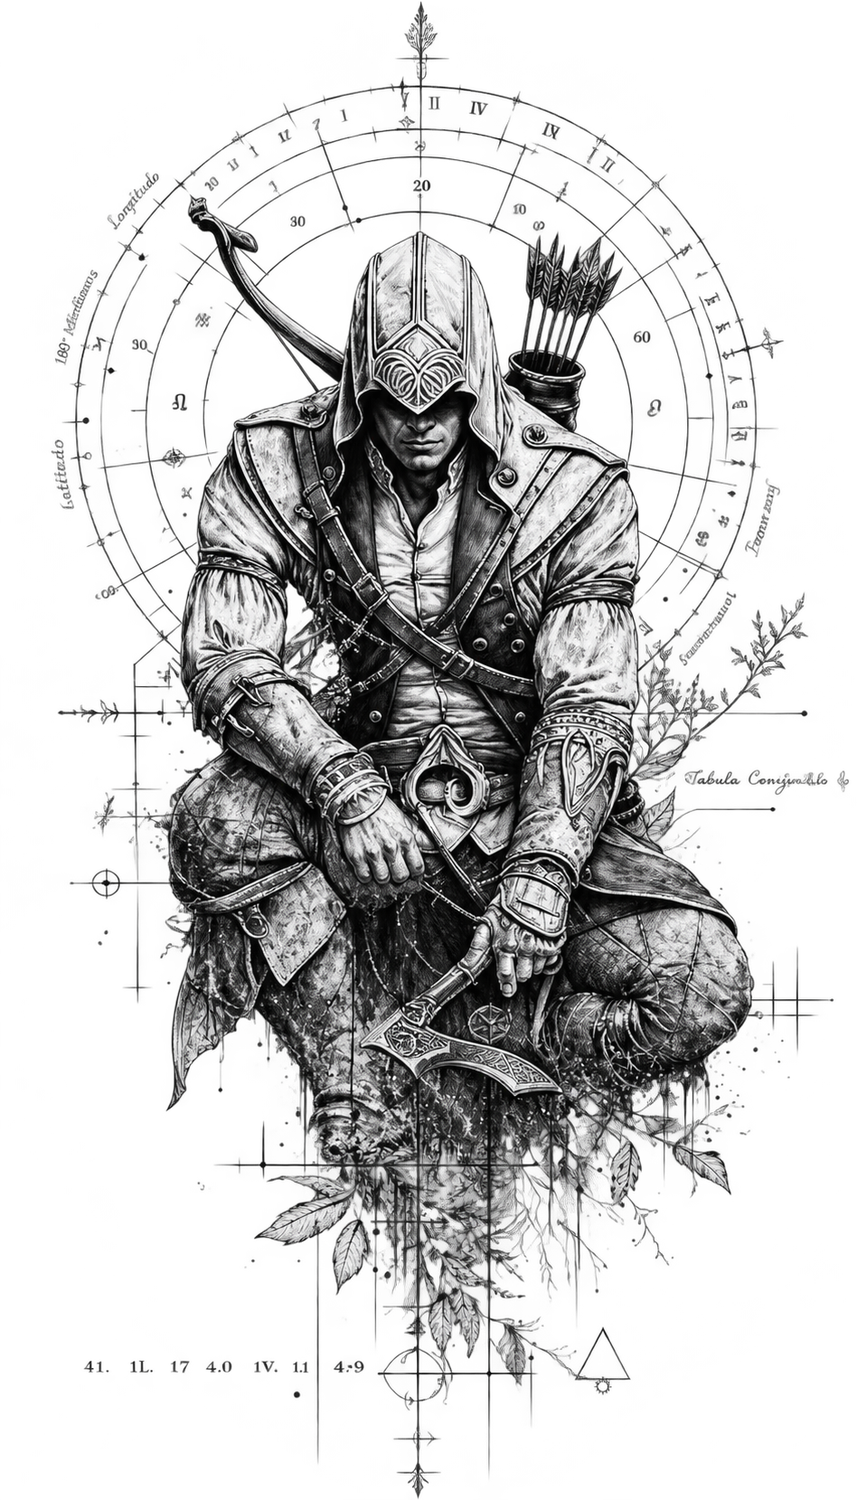
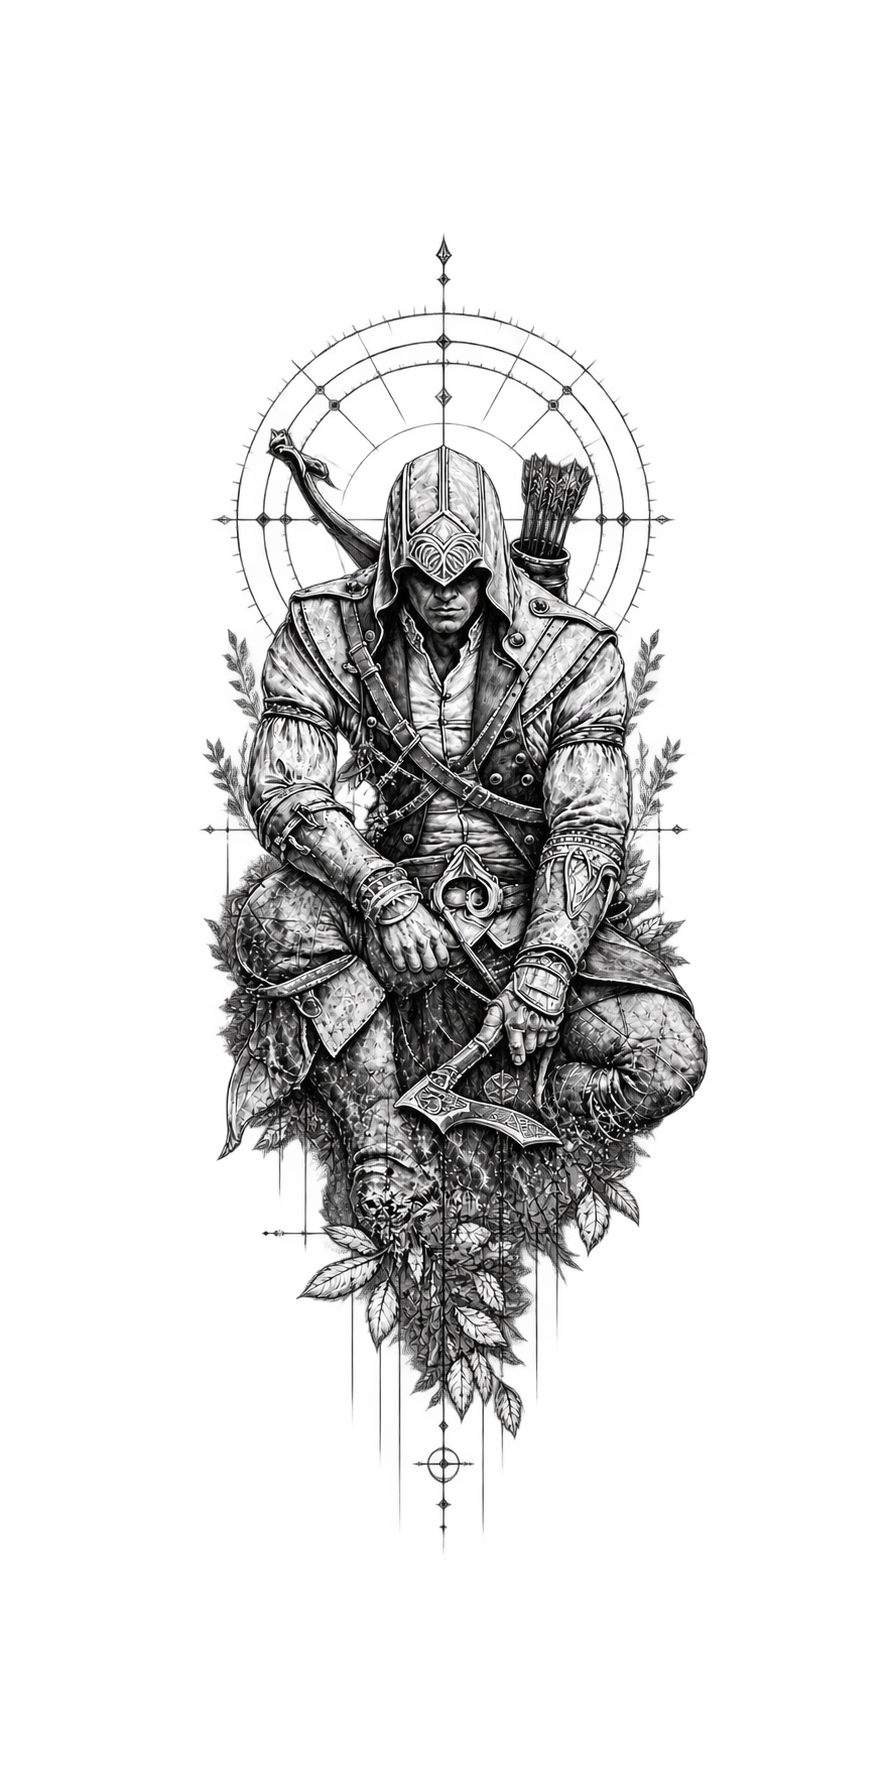
Fix archer sketch crop and stagger contact art

diff --git a/assets/js/site.js b/assets/js/site.js
@@ -199,7 +199,8 @@
         art.style.height = Math.min(780, gapWidth * 2.82) + 'px';
         art.style.left = isLeft ? (formRect.left - formGap - artWidth - hostRect.left) + 'px' : '';
         art.style.right = isLeft ? '' : (hostRect.right - formRect.right - formGap - artWidth) + 'px';
-        art.style.top = (formRect.top - hostRect.top + (formRect.height - art.offsetHeight) / 2) + 'px';
+        var verticalOffset = isLeft ? -24 : 0;
+        art.style.top = (formRect.top - hostRect.top + (formRect.height - art.offsetHeight) / 2 + verticalOffset) + 'px';
       });
     };
     contactArt.forEach(function (art) { glitch(art); });

diff --git a/3d-motion.html b/3d-motion.html
@@ -105,6 +105,6 @@
 <img src="" alt="">
 <div class="lb-bar"><button type="button" class="lb-btn" data-prev>← Prev</button><span data-lb-cap></span><button type="button" class="lb-btn" data-next>Next →</button></div>
 </div>
-<script src="assets/js/site.js?v=deb5e096" defer></script>
+<script src="assets/js/site.js?v=5f5fb2e5" defer></script>
 </body>
 </html>

diff --git a/mochi-print.html b/mochi-print.html
@@ -105,6 +105,6 @@
 <img src="" alt="">
 <div class="lb-bar"><button type="button" class="lb-btn" data-prev>← Prev</button><span data-lb-cap></span><button type="button" class="lb-btn" data-next>Next →</button></div>
 </div>
-<script src="assets/js/site.js?v=deb5e096" defer></script>
+<script src="assets/js/site.js?v=5f5fb2e5" defer></script>
 </body>
 </html>

diff --git a/orbit.html b/orbit.html
@@ -105,6 +105,6 @@
 <img src="" alt="">
 <div class="lb-bar"><button type="button" class="lb-btn" data-prev>← Prev</button><span data-lb-cap></span><button type="button" class="lb-btn" data-next>Next →</button></div>
 </div>
-<script src="assets/js/site.js?v=deb5e096" defer></script>
+<script src="assets/js/site.js?v=5f5fb2e5" defer></script>
 </body>
 </html>

diff --git a/pocket-nova.html b/pocket-nova.html
@@ -105,6 +105,6 @@
 <img src="" alt="">
 <div class="lb-bar"><button type="button" class="lb-btn" data-prev>← Prev</button><span data-lb-cap></span><button type="button" class="lb-btn" data-next>Next →</button></div>
 </div>
-<script src="assets/js/site.js?v=deb5e096" defer></script>
+<script src="assets/js/site.js?v=5f5fb2e5" defer></script>
 </body>
 </html>

diff --git a/tpn-os.html b/tpn-os.html
@@ -105,6 +105,6 @@
 <img src="" alt="">
 <div class="lb-bar"><button type="button" class="lb-btn" data-prev>← Prev</button><span data-lb-cap></span><button type="button" class="lb-btn" data-next>Next →</button></div>
 </div>
-<script src="assets/js/site.js?v=deb5e096" defer></script>
+<script src="assets/js/site.js?v=5f5fb2e5" defer></script>
 </body>
 </html>

diff --git a/about.html b/about.html
@@ -111,6 +111,6 @@
 <p class="copy">© 2026 Uno</p>
 </div>
 </div>
-<script src="assets/js/site.js?v=deb5e096" defer></script>
+<script src="assets/js/site.js?v=5f5fb2e5" defer></script>
 </body>
 </html>

diff --git a/index.html b/index.html
@@ -128,6 +128,6 @@
 <p class="copy">© 2026 Uno</p>
 </div>
 </div>
-<script src="assets/js/site.js?v=deb5e096" defer></script>
+<script src="assets/js/site.js?v=5f5fb2e5" defer></script>
 </body>
 </html>

diff --git a/work.html b/work.html
@@ -116,6 +116,6 @@
 <p class="copy">© 2026 Uno</p>
 </div>
 </div>
-<script src="assets/js/site.js?v=deb5e096" defer></script>
+<script src="assets/js/site.js?v=5f5fb2e5" defer></script>
 </body>
 </html>

diff --git a/contact.html b/contact.html
@@ -89,6 +89,6 @@
 <p class="copy">© 2026 Uno</p>
 </div>
 </div>
-<script src="assets/js/site.js?v=deb5e096" defer></script>
+<script src="assets/js/site.js?v=5f5fb2e5" defer></script>
 </body>
 </html>
